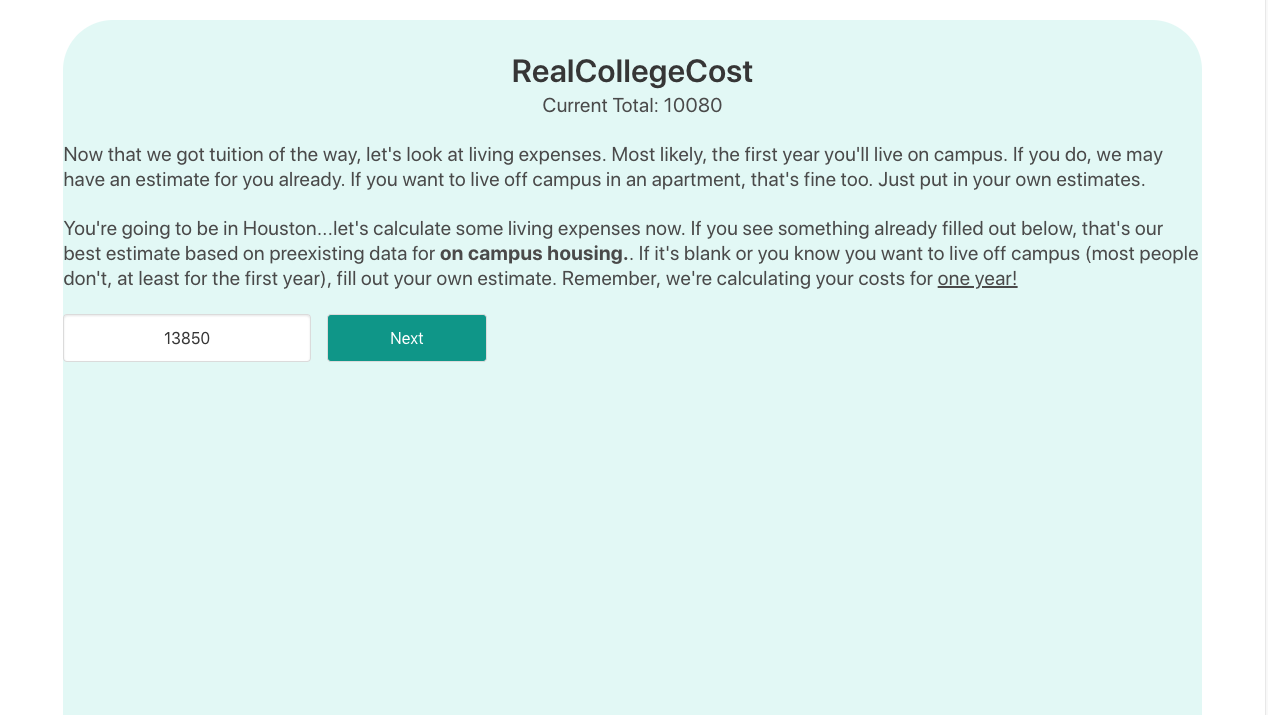
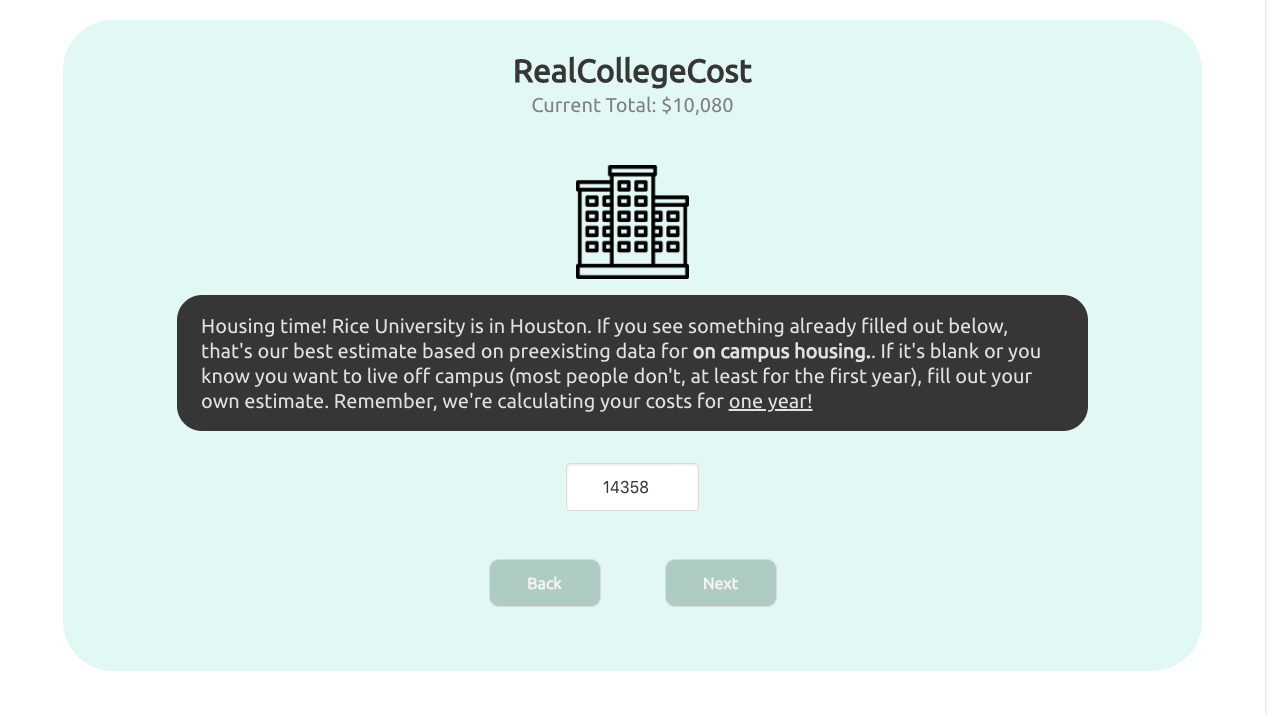
css changes, UI changes

diff --git a/Client/src/Tuition.js b/Client/src/Tuition.js
@@ -8,6 +8,7 @@ import Notification from 'react-bulma-components/lib/components/notification';
 import 'react-bulma-components/lib/components/form';
 import TitleHeader from './Header.js'
 import InputNumber from 'react-input-just-numbers';
+import Message from 'react-bulma-components/lib/components/message';
 
 class Tuition extends Component {
     constructor(props){
@@ -50,6 +51,10 @@ class Tuition extends Component {
         })
     }
 
+    onBackButton = () => {
+        this.props.history.push('/main');
+    }
+
     onCustomTuition = (e) => {
         this.setState({
             parentIncome:e.target.value
@@ -66,12 +71,9 @@ class Tuition extends Component {
         return(
             <div>
                 <TitleHeader />
-                <Heading className = 'header'>
-                    Now we have to figure out how much tuition you actually need to pay for {this.props.schoolName}.
-                    Without aid, the tuition is ${this.state.baseTuition}. But chances are, you don't have to pay that much.
-                </Heading>
-                <Heading subtitle>
-                    How much do your parents make? If you're not sure, give it your best guess!
+                <Heading subtitle className = 'header-tuition'>
+                    Now we have to figure out how much <b>yearly</b> tuition you actually need to pay for at {this.props.schoolName}.
+                    Without aid, the tuition is <b>${this.state.baseTuition.toLocaleString()}</b>. But chances are, you don't have to pay that much. <u>How much do your parents make?</u> If you're not sure, give it your best guess!
                 </Heading>
                 <div className = 'tuition-buttons'>
                     <Button onClick = {() => this.onParentIncome('0-30000')}>
@@ -90,21 +92,29 @@ class Tuition extends Component {
                         $110,001 + 
                     </Button>
                 </div>
-                {this.state.parentIncome === null ? <h1>No estimate available :(</h1> : 
-                this.state.parentIncome === '' ? <h1>Click one of the buttons above for an estimate!</h1> : 
-                <h1>Your estimate is shown below ↓</h1>}
-                <Notification color='danger'>
-                    If you're okay with the number below, go to the next page. If have your own tuition cost
-                    in mind, or if a result wasn't returned, go ahead and add your own estimate. If you know you're taking 
-                    out a loan or your parents are helping out, adjust accordingly. Remember, we're going trying to estimate the
-                    <b>yearly</b> cost of college because it's easier to estimate this way. 
-                </Notification>
                 <div className = 'tuition-box'>
                     <InputNumber onChange = {(event) => {this.onCustomTuition(event)}} value = {this.state.parentIncome} placeholder = 'Tuition cost...' className = 'input'></InputNumber>
                 </div>
-                <Button onClick = {this.onEstimateTotal}>
-                    Next
+                <Message className = 'is-primary estimate-text'>
+                    <Message.Header className = 'estimate-header'>
+                    {this.state.parentIncome === null ? <h1>No estimate available :(</h1> : this.state.parentIncome === '' ? <h1>Click one of the buttons above for an estimate!</h1> : 
+                <h1>Your estimate is shown above ↑</h1>}
+                    </Message.Header>
+                    <Message.Body>
+                        If you're okay with the number above, go to the next page. If have your own tuition cost
+                        in mind, or if a result wasn't returned, go ahead and add your own estimate. If you know you're taking 
+                        out a loan or your parents are helping out, adjust accordingly. If you want to calculate day by day college costs,
+                        you can put 0 for the number above to ignore tuition (ha ha ha...)
+                    </Message.Body>
+                    </Message>
+                <div className = 'nav-button-container'>
+                <Button className = 'back-next-buttons' onClick = {this.onBackButton}>
+                    <b>Back</b>
+                </Button>  
+                <Button className = 'back-next-buttons' onClick = {this.onEstimateTotal}>
+                    <b>Next</b>
                 </Button>
+                </div>
             </div>
         )
     }

diff --git a/Client/src/RoomAndBoard.js b/Client/src/RoomAndBoard.js
@@ -5,7 +5,9 @@ import 'react-bulma-components/lib/components/form';
 import Button from 'react-bulma-components/lib/components/button';
 import TitleHeader from './Header.js'
 import InputNumber from 'react-input-just-numbers';
-
+import "./RoomAndBoard.css"
+import Image from 'react-bulma-components/lib/components/image';
+import Hero from 'react-bulma-components/lib/components/hero';
 
 class RoomAndBoard extends Component {
     constructor(props){
@@ -38,6 +40,10 @@ class RoomAndBoard extends Component {
         })
     }
 
+    onBackButton = () => {
+        this.props.history.push('/main/2');
+    }
+
     handleTextChange = (e) => {
         this.setState({
             roomAndBoard:e.target.value
@@ -54,17 +60,25 @@ class RoomAndBoard extends Component {
         return(
             <div>
                 <TitleHeader />
-                <Heading subtitle>
-                    Now that we got tuition of the way, let's look at living expenses. Most likely, the first year you'll live on campus. If you do, we may 
-                    have an estimate for you already. If you want to live off campus in an apartment, that's fine too. Just put in your own estimates.
-                </Heading>
-                <Heading subtitle>You're going to be in {this.state.city}...let's calculate some living expenses now. If you see something 
-                already filled out below, that's our best estimate based on preexisting data for <b>on campus housing.</b>. If it's blank or you know you want to live 
-                off campus (most people don't, at least for the first year), fill out your own estimate. Remember, we're calculating your costs for <u>one year!</u></Heading>
-                <InputNumber className = 'input' value = {this.state.roomAndBoard} onChange = {(event) => this.handleTextChange(event)}></InputNumber>
-                <Button onClick = {this.onEstimateTotal}>
-                    Next
+                <Image src = 'https://www.shareicon.net/data/128x128/2016/09/26/835174_buildings_512x512.png'/>
+                <Hero  color = 'dark' >
+                    <Hero.Body>
+                    <Heading className = 'housing-intro' subtitle>Housing time! {this.props.schoolName} is in {this.state.city}. If you see something 
+                    already filled out below, that's our best estimate based on preexisting data for <b>on campus housing.</b>. If it's blank or you know you want to live 
+                    off campus (most people don't, at least for the first year), fill out your own estimate. Remember, we're calculating your costs for <u>one year!</u></Heading>
+                    </Hero.Body>
+                </Hero>
+                <div className = 'housing-box'>
+                    <InputNumber className = 'input' value = {this.state.roomAndBoard} onChange = {(event) => this.handleTextChange(event)}></InputNumber>
+                </div>
+                <div className = 'nav-button-container'>
+                <Button className = 'back-next-buttons' onClick = {this.onBackButton}>
+                    <b>Back</b>
+                </Button>  
+                <Button className = 'back-next-buttons' onClick = {this.onEstimateTotal}>
+                    <b>Next</b>
                 </Button>
+                </div>
             </div>
         )
     }
@@ -74,7 +88,8 @@ const mapStateToProps = (state) => {
     return {
         total: state.total,
         schoolId:state.schoolId,
-        roomingTotal:state.roomingTotal
+        roomingTotal:state.roomingTotal,
+        schoolName:state.schoolName
     }
 }
 

diff --git a/Client/src/Home.js b/Client/src/Home.js
@@ -26,17 +26,15 @@ class Home extends Component{
                 <Container>
                 <Heading style = {{'textAlign':'center'}}size = {1}>RealCollegeCost</Heading>
                 <Heading style = {{'paddingTop':'3em','textAlign':'center'}} subtitle size={4}>
-                    College's expensive, and tuition isn't the whole picture. 
+                    College's expensive. Let's plan ahead. 
                 </Heading>
                 </Container>
             </Hero.Body>
         </Hero>
         <Content className = 'description' >
             <p>
-                When you're thinking about which college to go to, one thing to always think about is money, because this world 
-                is run by bullshit fucking rich bastards. Unfortunately, while tuition is the bulk of the cost, there are many other things
-                you gotta worry about, such as room and boarding, food, certain types of liquids, etc. That's where RealCollegeCost comes in. Using this app, you can get an accurate estimate of 
-                the true annual cost of attending a university. 
+                When thinking about the cost of college, tuition isn't the whole picture (unfortunately). This website is intended to 
+                give you an honest outlook on your overall cost for college so you can plan ahead. 
             </p>
         </Content>
         <Columns className = 'facts'>

diff --git a/Client/src/Search.js b/Client/src/Search.js
@@ -4,6 +4,7 @@ import 'react-bulma-components/lib/components/form';
 import Heading from 'react-bulma-components/lib/components/heading';
 import './Search.css'
 import TitleHeader from './Header.js'
+
 class Search extends Component {
     constructor(){
         super()
@@ -20,7 +21,10 @@ class Search extends Component {
     onSearchChange = (e) => {
         let baseUrl = "https://api.data.gov/ed/collegescorecard/v1/schools?"
         let apiKey = "S0RreVIMaoUJRJiIb9vLSTqiouUFP0KwjX5OCdwa"
-        let URL = `${baseUrl}school.name=${e.target.value}&api_key=${apiKey}&&_fields=latest.student.size,school.name,latest.cost.tuition.out_of_state,id`
+        let perPage = "&per_page=18"
+        let URL = `${baseUrl}school.name=${e.target.value}${perPage}&api_key=${apiKey}&&_fields=latest.student.size,school.name,latest.cost.tuition.out_of_state,id`
+        console.log(URL)
+
         fetch(URL)
         .then(response => response.json())
         .then(response => this.setState({

diff --git a/Client/src/Tuition.css b/Client/src/Tuition.css
@@ -3,22 +3,50 @@
     justify-content: center;
 }
 
-.button {
+.tuition-buttons .button {
     width: 10em;
     margin-left:1em;
     margin-right:1em;
+    background-color:rgb(26, 177, 131);
+    font-family: 'Ubuntu', sans-serif;
 }
 
+
 .input {
-    width:20%;
+    width:10%;
 }
 
 .tuition-box{
     display:flex;
     justify-content: center;
+    padding-bottom:2em;
 }
 
 input {
     text-align:center;
     text-emphasis: bolder;
+}
+
+.header-tuition {
+    padding-left:4.5em;
+    padding-right:4.5em;
+    padding-bottom:1em;
+    padding-top:2em;
+    line-height:1.5em;
+}
+
+.message-header h1 {
+    color:rgb(32, 48, 49);
+    font-size:1.2em;
+    margin-left:2em;
+    margin-top:-.05em;
+    margin-bottom:-.05em;
+    margin-left:auto;
+    margin-right:auto;
+}
+
+.message {
+    width:80%;
+    margin-left:auto;
+    margin-right:auto;
 }

diff --git a/Client/src/Header.js b/Client/src/Header.js
@@ -7,8 +7,8 @@ class TitleHeader extends Component{
     render(){
         return(
             <div>
-                <Heading className = 'header'>RealCollegeCost</Heading>
-                <Heading style = {{'text-align':'center'}}subtitle>Current Total: {this.props.total}</Heading>
+                <Heading size = {3} className = 'header'>RealCollegeCost</Heading>
+                <Heading style = {{'text-align':'center','color':'grey'}}subtitle>Current Total: ${this.props.total.toLocaleString()}</Heading>
             </div>
         )
     }

diff --git a/Client/src/RoomAndBoard.css b/Client/src/RoomAndBoard.css
@@ -1,0 +1,29 @@
+.image {
+    width:10%;
+    height:10%;
+    margin-left:auto;
+    margin-right:auto;
+}
+
+.hero {
+    width:80%;
+    border-radius: 25px;
+    margin-left:auto;
+    margin-right:auto;
+    margin-bottom:2em;
+}
+
+.housing-intro {
+    margin-top:-1.5em;
+    margin-bottom:-1.5em;
+}
+
+.input {
+    margin-left:auto;
+    margin-right:auto;
+}
+
+.housing-box{
+    display:flex;
+    justify-content: center;
+}

diff --git a/Client/src/Search.css b/Client/src/Search.css
@@ -1,4 +1,4 @@
-div {}
+
 
 .Pagination {
     position: absolute;
@@ -14,6 +14,7 @@ div {}
 .input-container{
     display:flex;
     justify-content: center;
+    padding-bottom:1.5em;
 }
 
 .Pagination ul {
@@ -27,5 +28,13 @@ div {}
 
 .panel-block {
     justify-content: center;
+    transition: transform .2s;
 }
 
+.panel-block:hover {
+    transform: scale(1.1);
+}
+
+.panel{
+    padding-bottom:2em;
+}

diff --git a/Client/src/Main.js b/Client/src/Main.js
@@ -17,8 +17,9 @@ import SearchRouter from './SearchRouter.js';
 class Main extends Component{
     
     render(){
+
         return(
-        <div className = 'body-container'>
+        <div className = 'body-container' style = {{'backgroundColor':'#e3f8f5'}}>
             <BrowserRouter>
                 <Switch>
                 <Route exact path = {this.props.match.path} component={Search}/>

diff --git a/Client/src/App.js b/Client/src/App.js
@@ -8,10 +8,11 @@ import Home from './Home.js'
 import Main from './Main.js'
 import TotalCost from './TotalCost.js';
 import SearchRouter from './SearchRouter.js';
+import './NavButtons.css'
 
 function App() {
   return (
-    <div>
+    <div className = 'big-container'>
       <BrowserRouter>
       <Switch>
           <Route exact path = '/login' component = {Login}></Route>

diff --git a/Client/src/NavButtons.css b/Client/src/NavButtons.css
@@ -1,0 +1,18 @@
+.nav-button-container {
+    display:flex;
+    justify-content: center;
+}
+
+.back-next-buttons {
+    font-family: 'Ubuntu', sans-serif;
+    border-radius: 10px;
+    background-color:rgb(176, 204, 196);
+    width:7em;
+    margin-left:2em;
+    margin-right:2em;
+    margin-top:3em;
+    color:rgb(243, 243, 243);
+}
+
+
+

diff --git a/Client/src/Main.css b/Client/src/Main.css
@@ -5,7 +5,8 @@
 
 .body-container {
     background-color:#e3f8f5;
-    height:1200px;
+    height:auto;
+    min-height:500px;
     width:90%;
     margin-bottom:5em;
     margin-left:auto;
